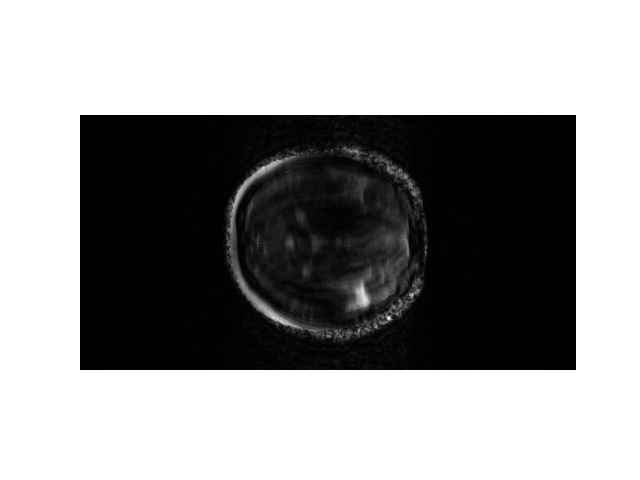
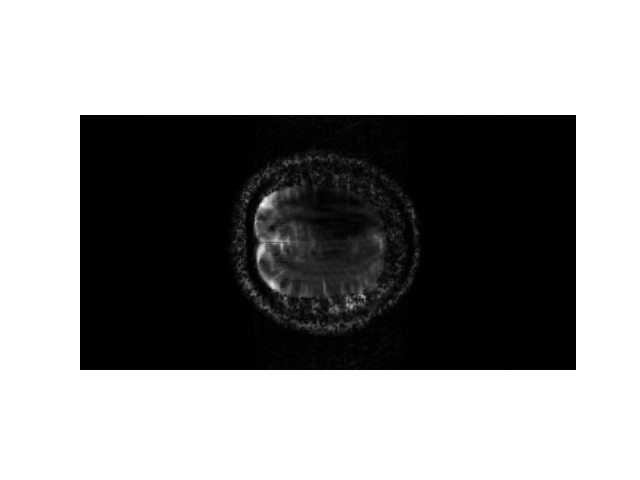
test recons, masking in E

Changed region(s): [[0.3438, 0.2812, 0.6875, 0.7188]]

diff --git a/my_CDLNet/mri_utils.py b/my_CDLNet/mri_utils.py
@@ -20,8 +20,8 @@ def mri_encoding(x, acceleration_map, smaps):
     # x_coils is C x N x N
     y_coils = fft.fftshift(fft.fft2(x_coils, norm = 'ortho'))
     # y_coils is C x N x N
-    # y_mask = torch.einsum('jj, ijk -> ijk', acceleration_map, y_coils)
-    return y_coils
+    y_mask = torch.einsum('jj, ijk -> ijk', acceleration_map, y_coils)
+    return y_mask
 
 
 def mri_decoding(y, acceleration_map, smaps):

diff --git a/my_CDLNet/sense.py b/my_CDLNet/sense.py
@@ -62,7 +62,6 @@ def main(args):
 
     # Mask kspace
     kspace_masked = torch.einsum('jj, ijk -> ijk', mask, kspace)
-    breakpoint()
     mri_recon, tol_reached = sense(kspace_masked, mask, smaps)
 
     breakpoint()
